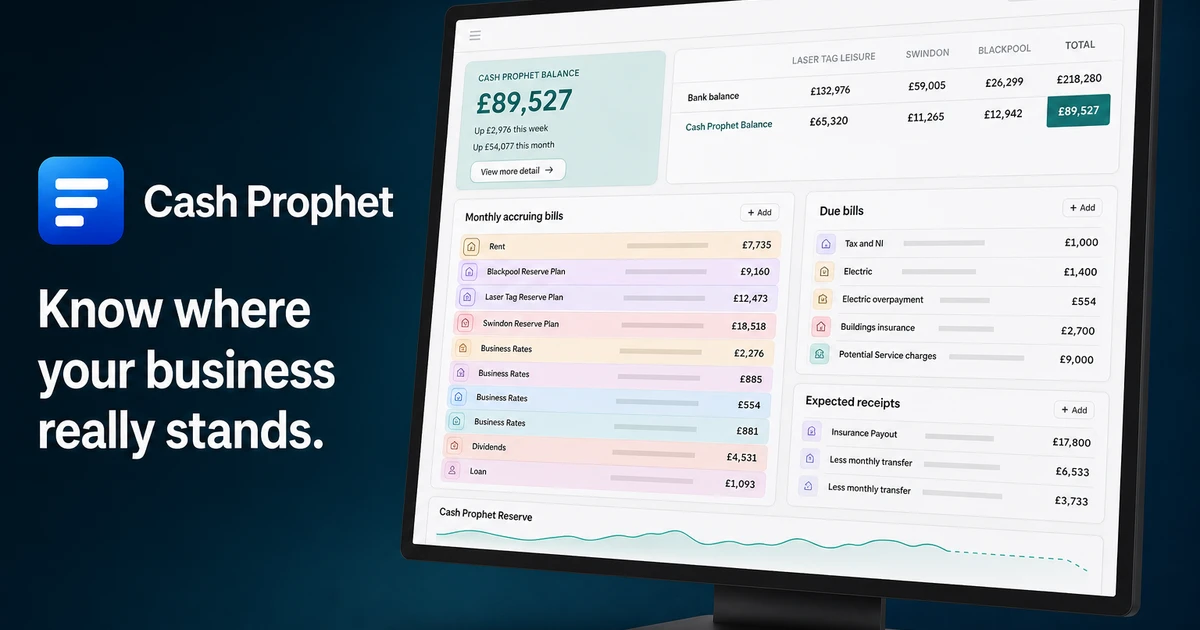
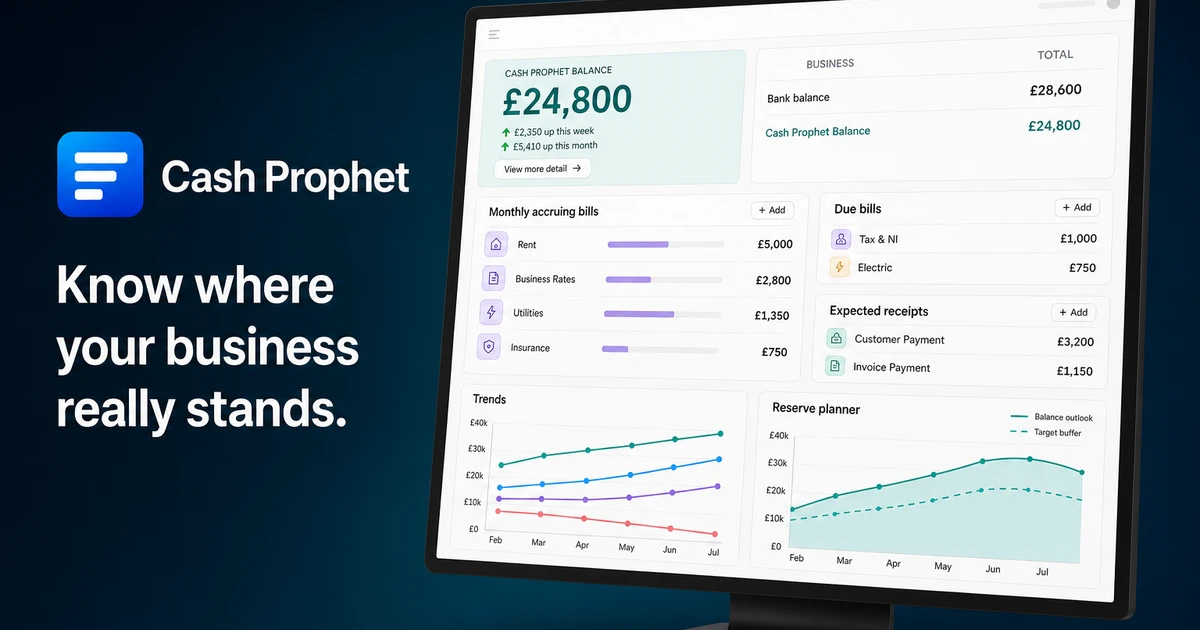
Simplify share-image dashboard to one business with trends and reserve widgets.

Changed region(s): [[0.0308, 0.0, 0.9867, 1.0], [0.0308, 0.4222, 0.3083, 0.7238], [0.555, 0.0905, 0.8017, 0.2413]]

diff --git a/index.html b/index.html
@@ -33,7 +33,7 @@
     <meta property="og:image:height" content="630" />
     <meta
       property="og:image:alt"
-      content="Cash Prophet dashboard on a monitor — Cash Prophet Balance, accruing bills, due, receipts and reserve outlook."
+      content="Cash Prophet on a monitor — single-business dashboard with Cash Prophet Balance, accruing bills, trends and reserve planner."
     />
     <meta name="twitter:card" content="summary_large_image" />
     <meta name="twitter:title" content="Cash Prophet | A daily financial position you can trust" />
@@ -44,7 +44,7 @@
     <meta name="twitter:image" content="https://www.cashprophet.co.uk/og-image.webp" />
     <meta
       name="twitter:image:alt"
-      content="Cash Prophet dashboard on a monitor — Cash Prophet Balance, accruing bills, due, receipts and reserve outlook."
+      content="Cash Prophet on a monitor — single-business dashboard with Cash Prophet Balance, accruing bills, trends and reserve planner."
     />
     <link rel="canonical" href="https://www.cashprophet.co.uk/" />
     <link rel="preconnect" href="https://fonts.googleapis.com" />

diff --git a/src/content/marketingSeo.ts b/src/content/marketingSeo.ts
@@ -2,7 +2,7 @@
 
 export const SITE_OG_IMAGE = '/og-image.webp' as const
 export const SITE_OG_IMAGE_ALT =
-  'Cash Prophet dashboard on a monitor — Cash Prophet Balance, accruing bills, due, receipts and reserve outlook.' as const
+  'Cash Prophet on a monitor — single-business dashboard with Cash Prophet Balance, accruing bills, trends and reserve planner.' as const
 export const SITE_OG_IMAGE_WIDTH = 1200
 export const SITE_OG_IMAGE_HEIGHT = 630
 
